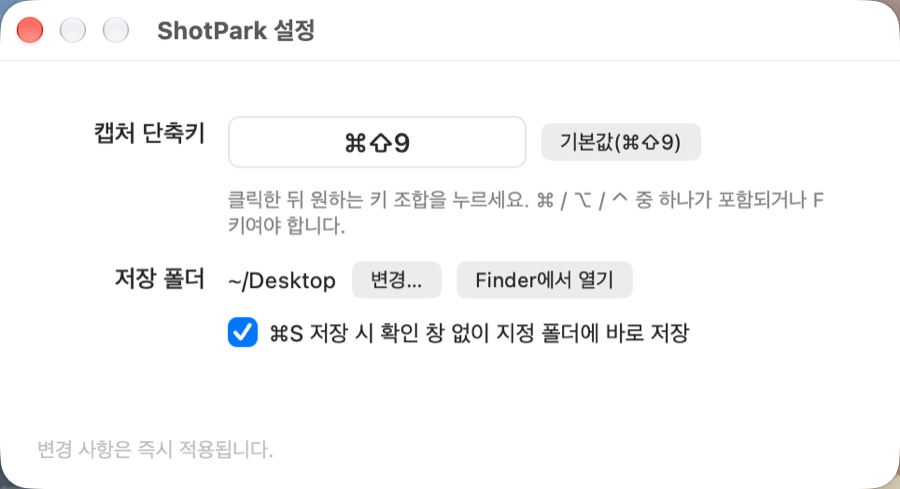
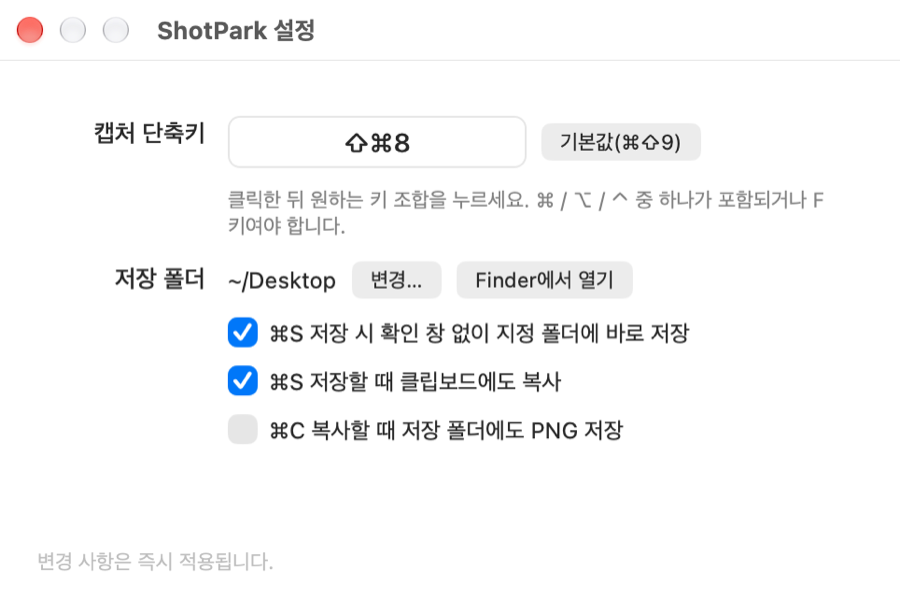
v1.7.1: hotkey display shows base key (⇧8 not *); fresh settings screenshot

diff --git a/Sources/ShotPark/Settings.swift b/Sources/ShotPark/Settings.swift
@@ -61,7 +61,30 @@ struct HotKeySpec: Equatable {
             kVK_F18: "F18", kVK_F19: "F19", kVK_F20: "F20",
         ]
         if let s = special[Int(event.keyCode)] { return s }
+        // Base character without any modifier (so ⇧8 reads "8", not "*").
+        if let base = event.characters(byApplyingModifiers: []), !base.isEmpty { return base.uppercased() }
         return (event.charactersIgnoringModifiers ?? "?").uppercased()
+    }
+
+    /// Re-derive a display string from the stored key code for the common keys, so entries saved by
+    /// older builds (which could show "*" for ⇧8) are shown correctly.
+    static func normalizedDisplay(keyCode: UInt32, carbonModifiers: UInt32, fallback: String) -> String {
+        let keys: [Int: String] = [
+            kVK_ANSI_0: "0", kVK_ANSI_1: "1", kVK_ANSI_2: "2", kVK_ANSI_3: "3", kVK_ANSI_4: "4",
+            kVK_ANSI_5: "5", kVK_ANSI_6: "6", kVK_ANSI_7: "7", kVK_ANSI_8: "8", kVK_ANSI_9: "9",
+            kVK_ANSI_A: "A", kVK_ANSI_B: "B", kVK_ANSI_C: "C", kVK_ANSI_D: "D", kVK_ANSI_E: "E", kVK_ANSI_F: "F",
+            kVK_ANSI_G: "G", kVK_ANSI_H: "H", kVK_ANSI_I: "I", kVK_ANSI_J: "J", kVK_ANSI_K: "K", kVK_ANSI_L: "L",
+            kVK_ANSI_M: "M", kVK_ANSI_N: "N", kVK_ANSI_O: "O", kVK_ANSI_P: "P", kVK_ANSI_Q: "Q", kVK_ANSI_R: "R",
+            kVK_ANSI_S: "S", kVK_ANSI_T: "T", kVK_ANSI_U: "U", kVK_ANSI_V: "V", kVK_ANSI_W: "W", kVK_ANSI_X: "X",
+            kVK_ANSI_Y: "Y", kVK_ANSI_Z: "Z",
+        ]
+        guard let name = keys[Int(keyCode)] else { return fallback }
+        var text = ""
+        if carbonModifiers & UInt32(controlKey) != 0 { text += "⌃" }
+        if carbonModifiers & UInt32(optionKey) != 0 { text += "⌥" }
+        if carbonModifiers & UInt32(shiftKey) != 0 { text += "⇧" }
+        if carbonModifiers & UInt32(cmdKey) != 0 { text += "⌘" }
+        return text + name
     }
 }
 
@@ -92,9 +115,10 @@ enum Settings {
     static var hotKey: HotKeySpec {
         get {
             guard d.object(forKey: K.keyCode) != nil else { return .default }
-            return HotKeySpec(keyCode: UInt32(d.integer(forKey: K.keyCode)),
-                              carbonModifiers: UInt32(d.integer(forKey: K.mods)),
-                              display: d.string(forKey: K.display) ?? "?")
+            let code = UInt32(d.integer(forKey: K.keyCode)), mods = UInt32(d.integer(forKey: K.mods))
+            return HotKeySpec(keyCode: code, carbonModifiers: mods,
+                              display: HotKeySpec.normalizedDisplay(keyCode: code, carbonModifiers: mods,
+                                                                    fallback: d.string(forKey: K.display) ?? "?"))
         }
         set {
             d.set(Int(newValue.keyCode), forKey: K.keyCode)

diff --git a/docs/index.html b/docs/index.html
@@ -70,7 +70,7 @@
   .step .fig img { display: block; width: 100%; }
   .two { display: grid; grid-template-columns: 1fr 1fr; gap: 14px; align-items: start; }
   @media (max-width: 680px) { .two { grid-template-columns: 1fr; } }
-  .settings-fig { border: 1px solid var(--line); border-radius: 12px; overflow: hidden; max-width: 560px; margin-top: 16px; }
+  .settings-fig { max-width: 560px; margin-top: 16px; filter: drop-shadow(0 12px 28px rgba(0,0,0,.22)); }
   .settings-fig img { display: block; width: 100%; }
 </style>
 </head>
@@ -115,7 +115,7 @@
       <div class="card"><div class="ic">🪶</div><h3>가볍고 투명하게</h3><p>Swift/AppKit 파일 9개, 외부 라이브러리 0개. Dock에 안 뜨고 메뉴 막대에만 있습니다. 온라인 업로드 없음.</p></div>
     </div>
     <div class="settings-fig"><img src="img/app-settings.png" alt="ShotPark 설정 창 — 캡처 단축키, 저장 폴더, 바로 저장 옵션"></div>
-    <p class="caption">설정 창 (<kbd>⌘,</kbd>). 단축키 박스를 클릭하고 원하는 조합을 누르면 바로 적용됩니다.</p>
+    <p class="caption">설정 창 (<kbd>⌘,</kbd>). 단축키 박스를 클릭하고 원하는 조합을 누르면 바로 적용됩니다. 저장 폴더, 바로 저장, 저장↔복사 연동도 여기서.</p>
   </section>
 
   <section id="keys">
